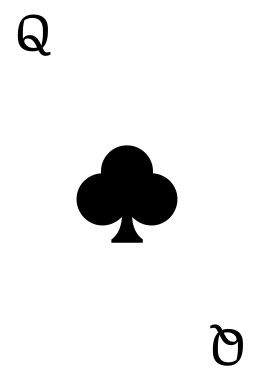
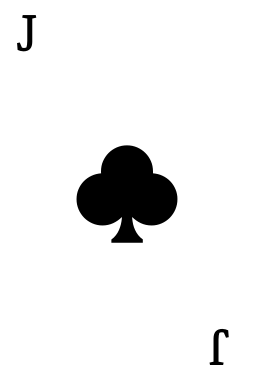
Add scoring function and fix club values

Changed region(s): [[0.8235, 0.8395, 0.9608, 0.9842], [0.0549, 0.0289, 0.1922, 0.1447]]

diff --git a/lib/cardTable.js b/lib/cardTable.js
@@ -14,7 +14,6 @@ function CardTable (height, width, canvas, ctx) {
   this.ctx = ctx;
   this.deck = []
 };
-
 CardTable.prototype.currentHand = function() {
   for(var i=0; dealerHand.length>i; i++){
     var image = dealerHand[i].imageSrc;
@@ -31,21 +30,21 @@ CardTable.prototype.currentHand = function() {
     var image = playerHand[i].imageSrc;
     var cardImage = new Image();
     cardImage.src = image;
-    context.drawImage(cardImage, playerHand[i].x, 0, 100, 200);
+    context.drawImage(cardImage, playerHand[i].x, 220, 100, 200);
   }
 };
-
-
-
-
 CardTable.prototype.newDeck = function () {
   this.deck = []
   var suits =['spades', 'hearts', 'diamonds', 'clubs'];
-  var number=["2","3","4","5","6","7","8","9","10","11","12","13","14"];
+  var number=[2,3,4,5,6,7,8,9,10,11,12,13,14];
   for (var i = 0; i < number.length; i++) {
     for (var j = 0; j < suits.length; j++) {
       var suit = suits[j];
-      this.deck.push(new Card({x:0, y:0, suit:suit, number:number[i]}));
+      if (number[i] > 11) {
+      this.deck.push(new Card({x:0, y:0, suit:suit, number:number[i], value:10}));
+    } else {
+      this.deck.push(new Card({x:0, y:0, suit:suit, number:number[i], value:number[i]}));
+     }
     }
   }
   this.shuffle();
@@ -55,63 +54,40 @@ CardTable.prototype.shuffle = function() {
   this.dealCards(this.deck);
 }
 
-
-
-
-//   console.log('shuffling');
-//   var newCards = [];
-//   for(var i = this.deck.length - 1; i >= 0; i--) {
-//     var index = Math.floor(Math.random() * i);
-//     var shuffledCard = this.deck.splice(index, 1);
-//     newCards.push(shuffledCard[0]);
-//   }
-//   this.dealCards(newCards);
-// }
-
 CardTable.prototype.dealCards = function(cardDeck) {
   dealerHand = [];
   playerHand = [];
-  console.log('dealingCards');
   cardDeck[0].x = 10;
   cardDeck[1].x = 120;
-  cardDeck[2].x = 230;
-  cardDeck[3].x = 340;
+  cardDeck[2].x = 10;
+  cardDeck[3].x = 120;
 
   dealerHand.push(cardDeck[0], cardDeck[1]);
   playerHand.push(cardDeck[2], cardDeck[3]);
+  console.log(dealerHand);
+  console.log(playerHand);
 }
 
+CardTable.prototype.calculatePlayerPoints = function (currentHand) {
+  var score = 0;
+  playerHand.forEach(function(card){
+    score += Number(card.value);
 
-//
-// CardTable.prototype.value = function () {
-//     if (this.number == "jack" || "queen" || "king") {
-//       console.log("i'm worth ten");
-//         return [10];
-//     } else if (this.number == "ace") {
-//         return [11];
-//     } else {
-//         return this.number;
-//     }
+  })
+  console.log(score);
+};
+  // var card1 = playerHand[0].value;
+  // var card2 = playerHand[1].value;
+  //
+  //  = card1 + card2;
+  // console.log(score);
 // };
-
-
-
-
-
-
-
-
-
-
-
-
-
-
 
 var table = new CardTable(300,400, canvas, context);
 
 $('.deal').on('click', function () {
   table.newDeck();
+  table.calculatePlayerPoints();
   });
 
 $('.hit').on('click', function () {

diff --git a/lib/card.js b/lib/card.js
@@ -6,6 +6,7 @@ var Card = function(options) {
   this.y = options.y;
   this.suit = options.suit;
   this.number = options.number;
+  this.value = options.value;
   this.imageSrc = "../images/" + this.suit + this.number + ".png";
 };
 
@@ -23,10 +24,6 @@ Card.prototype.create = function () {
   cardImage = new Image();
   cardImage.src = image;
   context.drawImage(cardImage, xPos, yPos, 100, 200);
-  // console.log(this);
-  // cardImage.onload = function() {
-  //   console.log(cardImage, xPos, yPos);
-  // }
 };
 
 
